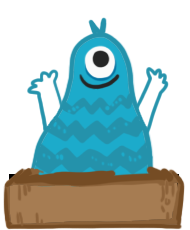
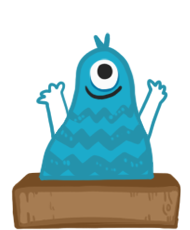
파일 변경

diff --git a/BlackBags/BlackBags/Player.cpp b/BlackBags/BlackBags/Player.cpp
@@ -32,7 +32,7 @@ bool CPlayer::Init(MO_OWNER playerIdx)
 		m_pPlayerFace = CRenderer::GetInstance()->CreateImage(L"Resource/Image/update/PLAYER_1_face.png", m_pPlayerFace);
 		m_pPlayerSelectedFace = CRenderer::GetInstance()->CreateImage(L"Resource/Image/update/PLAYER_1_selected_face.png", m_pPlayerSelectedFace);
 		m_pPlayerResultFace = CRenderer::GetInstance()->CreateImage(L"Resource/Image/update/PLAYER_face1.png", m_pPlayerResultFace);
-		m_pPlayerResultTile = CRenderer::GetInstance()->CreateImage(L"Resource/Image/update/PLAYER_tile1.png", m_pPlayerResultTile);
+		m_pPlayerResultTile = CRenderer::GetInstance()->CreateImage(L"Resource/Image/update/PLAYER_tile0.png", m_pPlayerResultTile);
 		
 		hr = CRenderer::GetInstance()->GetHwndRenderTarget()->CreateSolidColorBrush(D2D1::ColorF(_COLOR_PLAYER_1_), &m_pTileColorBrush);
 		break;
@@ -41,7 +41,7 @@ bool CPlayer::Init(MO_OWNER playerIdx)
 		m_pPlayerFace = CRenderer::GetInstance()->CreateImage(L"Resource/Image/update/PLAYER_2_face.png", m_pPlayerFace);
 		m_pPlayerSelectedFace = CRenderer::GetInstance()->CreateImage(L"Resource/Image/update/PLAYER_2_selected_face.png", m_pPlayerSelectedFace);
 		m_pPlayerResultFace = CRenderer::GetInstance()->CreateImage(L"Resource/Image/update/PLAYER_face2.png", m_pPlayerResultFace);
-		m_pPlayerResultTile = CRenderer::GetInstance()->CreateImage(L"Resource/Image/update/PLAYER_tile2.png", m_pPlayerResultTile);
+		m_pPlayerResultTile = CRenderer::GetInstance()->CreateImage(L"Resource/Image/update/PLAYER_tile0.png", m_pPlayerResultTile);
 		
 		hr = CRenderer::GetInstance()->GetHwndRenderTarget()->CreateSolidColorBrush(D2D1::ColorF(_COLOR_PLAYER_2_), &m_pTileColorBrush);
 		break;
@@ -50,7 +50,7 @@ bool CPlayer::Init(MO_OWNER playerIdx)
 		m_pPlayerFace = CRenderer::GetInstance()->CreateImage(L"Resource/Image/update/PLAYER_3_face.png", m_pPlayerFace);
 		m_pPlayerSelectedFace = CRenderer::GetInstance()->CreateImage(L"Resource/Image/update/PLAYER_3_selected_face.png", m_pPlayerSelectedFace);
 		m_pPlayerResultFace = CRenderer::GetInstance()->CreateImage(L"Resource/Image/update/PLAYER_face3.png", m_pPlayerResultFace);
-		m_pPlayerResultTile = CRenderer::GetInstance()->CreateImage(L"Resource/Image/update/PLAYER_tile3.png", m_pPlayerResultTile);
+		m_pPlayerResultTile = CRenderer::GetInstance()->CreateImage(L"Resource/Image/update/PLAYER_tile0.png", m_pPlayerResultTile);
 		
 		hr = CRenderer::GetInstance()->GetHwndRenderTarget()->CreateSolidColorBrush(D2D1::ColorF(_COLOR_PLAYER_3_), &m_pTileColorBrush);
 		break;
@@ -59,7 +59,7 @@ bool CPlayer::Init(MO_OWNER playerIdx)
 		m_pPlayerFace = CRenderer::GetInstance()->CreateImage(L"Resource/Image/update/PLAYER_4_face.png", m_pPlayerFace);
 		m_pPlayerSelectedFace = CRenderer::GetInstance()->CreateImage(L"Resource/Image/update/PLAYER_4_selected_face.png", m_pPlayerSelectedFace);
 		m_pPlayerResultFace = CRenderer::GetInstance()->CreateImage(L"Resource/Image/update/PLAYER_face4.png", m_pPlayerResultFace);
-		m_pPlayerResultTile = CRenderer::GetInstance()->CreateImage(L"Resource/Image/update/PLAYER_tile4.png", m_pPlayerResultTile);
+		m_pPlayerResultTile = CRenderer::GetInstance()->CreateImage(L"Resource/Image/update/PLAYER_tile0.png", m_pPlayerResultTile);
 		
 		hr = CRenderer::GetInstance()->GetHwndRenderTarget()->CreateSolidColorBrush(D2D1::ColorF(_COLOR_PLAYER_4_), &m_pTileColorBrush);
 		break;

diff --git a/BlackBags/BlackBags/MainMenu.cpp b/BlackBags/BlackBags/MainMenu.cpp
@@ -134,7 +134,7 @@ bool CMainMenu::CreateResource()
 	{
 		m_pRenderTarget = CRenderer::GetInstance()->GetHwndRenderTarget();
 
-		m_pTitle = CRenderer::GetInstance()->CreateImage(L"Resource/Image/update/monsterDoodle.png", m_pTitle);
+		m_pTitle = CRenderer::GetInstance()->CreateImage(L"Resource/Image/update/MAIN_title1.png", m_pTitle);
 
 		SetObjectSize();
 
